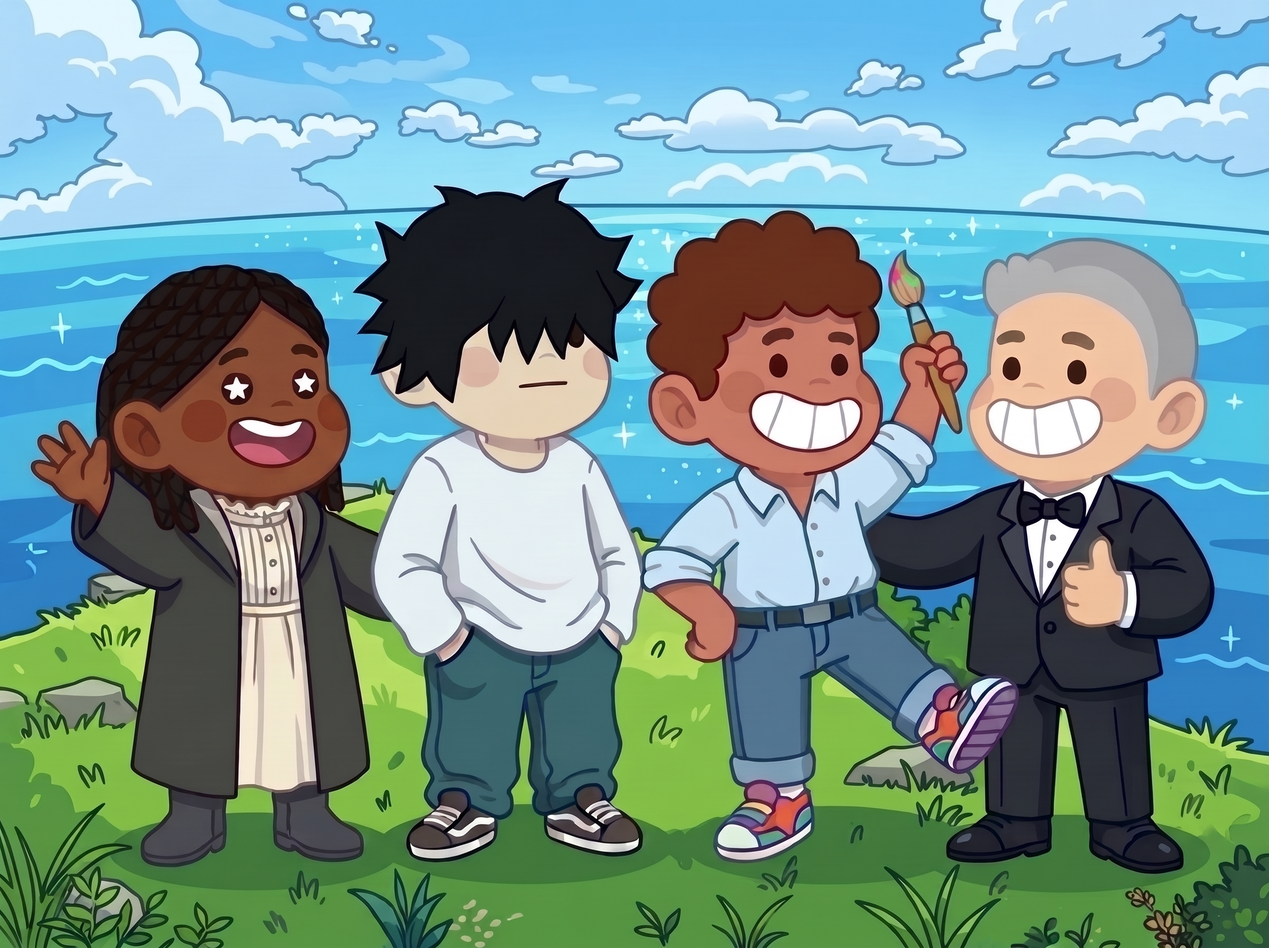
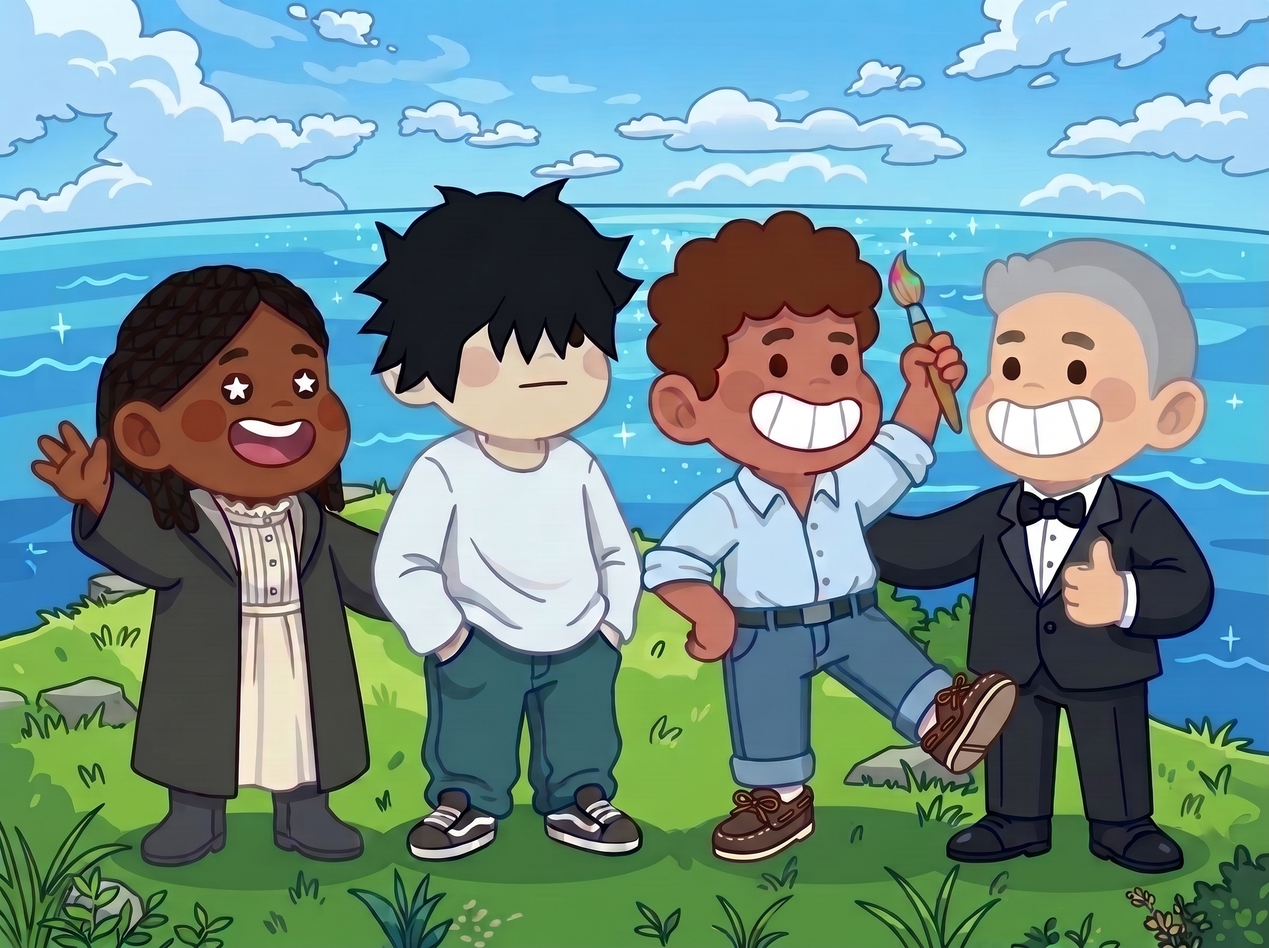
README.md

diff --git a/README.md b/README.md
@@ -1,7 +1,7 @@
 <div align="center">
   <a href="https://github.com/IkramMbz/nakas.gk">
     <img
-      src="assets/media/img/nakas-gk-banner.jpg"
+      src="assets/media/img/nakas-gk-banner.png"
       alt="nakas.gk Logo"
     >
   </a>
@@ -156,9 +156,9 @@ export default defineConfig({
 
 If you already have other Astro integrations, adapters, or Vite plugins, keep them and add `nakas()` to the existing `vite.plugins` array.
 
-**Client** — `src/components/Head.astro`
+**Client**
 
-If your project uses a dedicated Head component, add the following code at the end of `src/components/Head.astro`, inside the component's HTML `<head>`.
+Add the following script inside the `<head>` of your main Astro layout (or of the component that renders your `<head>`, if you have one).
 
 ```astro
 {import.meta.env.DEV && (
@@ -171,12 +171,10 @@ If your project uses a dedicated Head component, add the following code at the e
 ```
 
 > [!IMPORTANT]
-> - The code must be placed inside your `Head.astro` component, within the HTML `<head>`.
+> - The code must be placed inside the HTML `<head>`.
 > - Do not use `is:inline` on this script. Astro must process it through Vite to resolve the `nakas-gk` package correctly.
 > - `import.meta.env.DEV` ensures Nakas is loaded only during development.
 > - `enabled: true` forces the dock to appear, even if local host detection does not recognize your development environment.
-
-If you don't have a dedicated `Head.astro` component, place the same code inside the `<head>` of your main Astro layout.
 
 ### Options
 

diff --git a/assets/media/prompts/DESIGN.md b/assets/media/prompts/DESIGN.md
@@ -7,25 +7,10 @@ This is a color grade and texture pass only. Do not redraw or recompose.
 - Composition, framing, proportions and line art
 - Any existing text, spelled exactly as it is
 
-# COLOR GRADE
-- Soft, warm, friendly tone with gently lifted blacks
-- Saturation: [slightly reduced], colors vivid but never neon
-- Pull colors toward this palette:
-  - Peach #FDE8D8, Mint #E0F5DF, Soft sky #D8E4F2 (light areas and backgrounds)
-  - Cream #FFF6EA (highlights, replaces pure white)
-  - Ocean blue #4DA9E6, Grass green #62B84E (accents)
-  - Ink #1D1F28 (shadows and outlines, replaces pure black)
-- Slight warm cast overall
-
 # GRAIN AND TEXTURE
 - Fine, even film grain over the whole image, strength: [medium-low]
 - Very subtle paper texture
 - No scanlines, no halftone, no distortion
-
-# MOOD
-- Cozy, playful, friendly, a little nostalgic
-- Soft diffused light, gentle bloom on highlights
-- Flat illustration feel, nothing harsh or dramatic
 
 # NEGATIVE (avoid)
 - Glitch, RGB split, neon colors, heavy contrast
